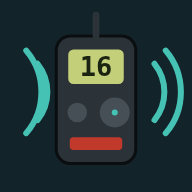
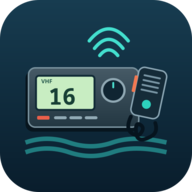
fix: captura única de veu al PTT i nova icona d’emissora VHF

diff --git a/i18n.js b/i18n.js
@@ -12,6 +12,7 @@ const T={
   'knob.vol':'VOL','knob.sql':'SQL','knob.channel':'CANAL','aria.vol':'Volum','aria.sql':'Squelch','aria.dial':'Canal','aria.down':'Canal anterior','aria.up':'Canal següent','aria.radio':'Emissora VHF',
   'key.power':'Encén o apaga (tecla P)','key.169':'Canal 16 / 9 (tecla 1)','key.hl':'Potència alta o baixa (tecla H)','key.scan':'Escàner (tecla S)','key.dsc':'Alerta de socors DSC (simulada)',
   'ptt.aria':'PTT: mantén premut per parlar','ptt.off':'Encén la ràdio','ptt.tx':'Transmetent… deixa anar per escoltar','ptt.ready':'Mantén premut i parla','ptt.noVoice':'Canal sense veu',
+  'heard.starting':'Preparant el micròfon… accepta el permís i espera «Escoltant» abans de parlar.','heard.capture':'No es pot capturar el micròfon. Comprova el dispositiu d’entrada i si una altra aplicació el fa servir.','heard.language':'El servei de reconeixement no admet aquesta llengua. Canvia la llengua de ràdio o escriu el missatge.','heard.startFailed':'No s’ha pogut iniciar el reconeixement de veu. Torna a prémer el PTT o fes servir el text.','heard.timeout':'El servei de reconeixement no ha retornat cap resultat. Comprova la connexió o escriu el missatge.',
   'heard.initial':'Mantén premut el PTT (o la barra d’espai), parla i deixa’l anar en acabar amb «{over}».','heard.listening':'Escoltant…','heard.processing':'Processant…',
   'heard.textMode':'Mode text: escriu el missatge a sota i prem «Transmet».','heard.noMic':'Cal donar permís al micròfon per parlar. També pots escriure el missatge.',
   'heard.network':'El reconeixement de veu del navegador necessita connexió a Internet. Mentrestant, escriu el missatge.','heard.nothing':'No s’ha reconegut cap frase. Mantén premut el PTT mentre parles i deixa’l anar en acabar.',
@@ -56,6 +57,7 @@ const T={
   'knob.vol':'VOL','knob.sql':'SQL','knob.channel':'CANAL','aria.vol':'Volumen','aria.sql':'Squelch','aria.dial':'Canal','aria.down':'Canal anterior','aria.up':'Canal siguiente','aria.radio':'Emisora VHF',
   'key.power':'Encender o apagar (tecla P)','key.169':'Canal 16 / 9 (tecla 1)','key.hl':'Potencia alta o baja (tecla H)','key.scan':'Escáner (tecla S)','key.dsc':'Alerta de socorro DSC (simulada)',
   'ptt.aria':'PTT: mantén pulsado para hablar','ptt.off':'Enciende la radio','ptt.tx':'Transmitiendo… suelta para escuchar','ptt.ready':'Mantén pulsado y habla','ptt.noVoice':'Canal sin voz',
+  'heard.starting':'Preparando el micrófono… acepta el permiso y espera «Escuchando» antes de hablar.','heard.capture':'No se puede capturar el micrófono. Comprueba el dispositivo de entrada y si otra aplicación lo utiliza.','heard.language':'El servicio no admite este idioma. Cambia el idioma de radio o escribe el mensaje.','heard.startFailed':'No se pudo iniciar el reconocimiento. Vuelve a pulsar PTT o utiliza texto.','heard.timeout':'El servicio de reconocimiento no devolvió resultados. Comprueba la conexión o escribe el mensaje.',
   'heard.initial':'Mantén pulsado el PTT (o la barra espaciadora), habla y suéltalo al terminar con «{over}».','heard.listening':'Escuchando…','heard.processing':'Procesando…',
   'heard.textMode':'Modo texto: escribe el mensaje abajo y pulsa «Transmitir».','heard.noMic':'Hay que dar permiso al micrófono para hablar. También puedes escribir el mensaje.',
   'heard.network':'El reconocimiento de voz del navegador necesita conexión a Internet. Mientras tanto, escribe el mensaje.','heard.nothing':'No se ha reconocido ninguna frase. Mantén pulsado el PTT mientras hablas y suéltalo al terminar.',
@@ -100,6 +102,7 @@ const T={
   'knob.vol':'VOL','knob.sql':'SQL','knob.channel':'CHANNEL','aria.vol':'Volume','aria.sql':'Squelch','aria.dial':'Channel','aria.down':'Previous channel','aria.up':'Next channel','aria.radio':'VHF radio',
   'key.power':'Power on or off (P key)','key.169':'Channel 16 / 9 (1 key)','key.hl':'High or low power (H key)','key.scan':'Scanner (S key)','key.dsc':'DSC distress alert (simulated)',
   'ptt.aria':'PTT: hold to talk','ptt.off':'Switch the radio on','ptt.tx':'Transmitting… release to listen','ptt.ready':'Hold and talk','ptt.noVoice':'No voice on this channel',
+  'heard.starting':'Preparing the microphone… allow access and wait for “Listening” before speaking.','heard.capture':'Cannot capture microphone audio. Check the input device and whether another application is using it.','heard.language':'The recognition service does not support this language. Change the radio language or type your message.','heard.startFailed':'Speech recognition could not start. Press PTT again or use text.','heard.timeout':'The recognition service returned no result. Check your connection or type the message.',
   'heard.initial':'Hold the PTT (or the space bar), speak, and release it when you finish with “{over}”.','heard.listening':'Listening…','heard.processing':'Processing…',
   'heard.textMode':'Text mode: type the message below and press “Transmit”.','heard.noMic':'Microphone permission is needed to talk. You can also type the message.',
   'heard.network':'The browser’s speech recognition needs an Internet connection. Meanwhile, type the message.','heard.nothing':'No speech was recognised. Hold the PTT while you talk and release it when you finish.',
@@ -144,6 +147,7 @@ const T={
   'knob.vol':'VOL','knob.sql':'SQL','knob.channel':'CANAL','aria.vol':'Volume','aria.sql':'Squelch','aria.dial':'Canal','aria.down':'Canal précédent','aria.up':'Canal suivant','aria.radio':'Radio VHF',
   'key.power':'Allumer ou éteindre (touche P)','key.169':'Canal 16 / 9 (touche 1)','key.hl':'Puissance haute ou basse (touche H)','key.scan':'Scanner (touche S)','key.dsc':'Alerte de détresse ASN (simulée)',
   'ptt.aria':'Alternat : maintenez pour parler','ptt.off':'Allumez la radio','ptt.tx':'Émission… relâchez pour écouter','ptt.ready':'Maintenez et parlez','ptt.noVoice':'Canal sans phonie',
+  'heard.starting':'Préparation du micro… autorisez son accès et attendez « Écoute » avant de parler.','heard.capture':'Impossible de capter le micro. Vérifiez le périphérique d’entrée et si une autre application l’utilise.','heard.language':'Le service ne prend pas en charge cette langue. Changez la langue radio ou écrivez le message.','heard.startFailed':'Impossible de démarrer la reconnaissance. Appuyez à nouveau sur l’alternat ou utilisez le texte.','heard.timeout':'Le service n’a renvoyé aucun résultat. Vérifiez la connexion ou écrivez le message.',
   'heard.initial':'Maintenez l’alternat (ou la barre d’espace), parlez, puis relâchez en terminant par « {over} ».','heard.listening':'Écoute…','heard.processing':'Traitement…',
   'heard.textMode':'Mode texte : écrivez le message ci-dessous et appuyez sur « Émettre ».','heard.noMic':'Il faut autoriser le micro pour parler. Vous pouvez aussi écrire le message.',
   'heard.network':'La reconnaissance vocale du navigateur a besoin d’Internet. En attendant, écrivez le message.','heard.nothing':'Aucune phrase reconnue. Maintenez l’alternat pendant que vous parlez et relâchez à la fin.',

diff --git a/app.js b/app.js
@@ -21,10 +21,10 @@ const save=()=>{try{localStorage.setItem(KEY,JSON.stringify(settings))}catch{}};
 
 const state={on:false,channel:settings.channel,power:settings.power,tx:false,rx:null,scan:false,scanHold:0,lastScan:0,dialog:newState(),queue:[],nextData:0,txLevel:0,signal:0};
 const traffic=new Traffic(Date.now());
-let rxToken=0,recognizer=null,stopMeter=null,txTimer=null,textTxTimer=null,msgTimer=null,textAnim=null,session=0,powerBusy=false,txChannel=null,txSession=null,cancelDsc=()=>{};
+let rxToken=0,recognizer=null,stopMeter=null,txTimer=null,textTxTimer=null,msgTimer=null,textAnim=null,session=0,powerBusy=false,voiceProcessing=false,txChannel=null,txSession=null,cancelDsc=()=>{};
 const pendingTimers=new Set();
 function later(fn,ms){const id=setTimeout(()=>{pendingTimers.delete(id);fn()},ms);pendingTimers.add(id);return id}
-function cancelSession(){session++;cancelDsc();clearTimeout(msgTimer);msgTimer=null;for(const id of pendingTimers)clearTimeout(id);pendingTimers.clear();clearTimeout(textTxTimer);textTxTimer=null;clearInterval(textAnim);textAnim=null;clearTimeout(txTimer);recognizer?.abort();recognizer=null;stopMeter?.();stopMeter=null;state.tx=false;state.txLevel=0;state.queue.length=0;state.dialog=newState();for(const key of Object.keys(history))delete history[key];$('#heard').classList.remove('live');}
+function cancelSession(){session++;voiceProcessing=false;cancelDsc();clearTimeout(msgTimer);msgTimer=null;for(const id of pendingTimers)clearTimeout(id);pendingTimers.clear();clearTimeout(textTxTimer);textTxTimer=null;clearInterval(textAnim);textAnim=null;clearTimeout(txTimer);recognizer?.abort();recognizer=null;stopMeter?.();stopMeter=null;state.tx=false;state.txLevel=0;state.queue.length=0;state.dialog=newState();for(const key of Object.keys(history))delete history[key];$('#heard').classList.remove('live');}
 
 /* ---------- Pantalla LCD ---------- */
 const DIGITS={0:'abcdef',1:'bc',2:'abged',3:'abgcd',4:'fgbc',5:'afgcd',6:'afgedc',7:'abc',8:'abcdefg',9:'abcdfg','-':'g',' ':''};
@@ -51,7 +51,7 @@ function render(){
  document.querySelectorAll('#meter i').forEach((b,i)=>b.classList.toggle('on',i<bars));
  $('#meterLabel').textContent=state.tx?'TX':'RX';
  $('#kScan').setAttribute('aria-pressed',state.scan);$('#power').setAttribute('aria-pressed',state.on);
- $('#ptt').disabled=!state.on;$('#ptt').classList.toggle('tx',state.tx);
+ $('#ptt').disabled=!state.on||voiceProcessing;$('#ptt').classList.toggle('tx',state.tx);
  $('#pttHint').textContent=t(!state.on?'ptt.off':state.tx?'ptt.tx':c.txAllowed?'ptt.ready':'ptt.noVoice');
  const dial=$('#dial');dial.setAttribute('aria-valuenow',state.channel);dial.setAttribute('aria-valuetext',t('aria.dial')+' '+state.channel+', '+channelName(c.nameKey));
  if(!state.rx&&!state.tx&&!msgTimer)lcdMessage('');
@@ -171,27 +171,36 @@ function canTransmit(){
  if(!info(state.channel).txAllowed){audio.error();lcdMessage(t('lcd.txInhibit'),2500);return false}
  return true;
 }
+function recognitionError(error){
+ const key=({'not-allowed':'heard.noMic','service-not-allowed':'heard.noMic','network':'heard.network','audio-capture':'heard.capture','language-not-supported':'heard.language','start':'heard.startFailed','unsupported':'heard.startFailed','timeout':'heard.timeout'})[error]||'heard.nothing';
+ return t(key);
+}
 async function pttDown(){
- if(state.tx||!canTransmit())return;
+ if(state.tx||voiceProcessing||!canTransmit())return;
  if(state.rx){const kind=state.rx.kind;interruptRx('step');if(kind!=='distant')log('system',t('sys.stepped'))}
  txChannel=state.channel;txSession=session;state.scan=false;state.tx=true;audio.tx(true);lcdMessage(t('lcd.tx'));render();
  const heard=$('#heard');heard.classList.add('live');heard.dataset.used='1';
  if(settings.mode==='voice'&&canListen()){
-  heard.textContent=t('heard.listening');
-  recognizer=listen(settings.lang,text=>{heard.textContent=text||t('heard.listening')});
-  const stamp=session,currentTx=recognizer;
-  audio.micMeter(l=>{state.txLevel=Math.min(1,l*2.2);$('#ptt').style.setProperty('--lvl',state.txLevel);render()}).then(stop=>{if(state.tx&&stamp===session&&currentTx===recognizer)stopMeter=stop;else stop()});
+  heard.textContent=t('heard.starting');
+  const stamp=session;
+  recognizer=listen(settings.lang,text=>{if(stamp===session)heard.textContent=text||t('heard.listening')},(phase,error)=>{
+   if(stamp!==session||!state.tx)return;
+   if(phase==='error'){heard.textContent=recognitionError(error);return}
+   state.txLevel=phase==='speech'?.65:0;render();
+   if(!heard.textContent||[t('heard.starting'),t('heard.listening')].includes(heard.textContent))heard.textContent=t(phase==='starting'?'heard.starting':'heard.listening');
+  });
  }else heard.textContent=t('heard.textMode');
  clearTimeout(txTimer);txTimer=setTimeout(()=>{if(state.tx){lcdMessage(t('lcd.timeout'),2500);pttUp()}},45000);
 }
 async function pttUp(){
  if(!state.tx||textTxTimer)return;clearTimeout(txTimer);state.tx=false;state.txLevel=0;audio.tx(false);stopMeter?.();stopMeter=null;render();
  const heard=$('#heard');heard.classList.remove('live');
- if(!recognizer)return;const r=recognizer,channel=txChannel,stamp=txSession;recognizer=null;heard.textContent=t('heard.processing');
+ if(!recognizer)return;const r=recognizer,channel=txChannel,stamp=txSession;recognizer=null;voiceProcessing=true;render();heard.textContent=t('heard.processing');
  const {text,error}=await r.stop();
  if(!state.on||stamp!==session)return;
+ voiceProcessing=false;render();
  if(text){heard.textContent='«'+text+'»';transmitted(text,channel,stamp);return}
- heard.textContent=t(error==='not-allowed'||error==='service-not-allowed'?'heard.noMic':error==='network'?'heard.network':'heard.nothing');
+ heard.textContent=recognitionError(error);
 }
 async function transmitted(text,channel=state.channel,stamp=session){
  if(!state.on||stamp!==session)return;
@@ -238,7 +247,7 @@ addEventListener('keydown',e=>{
  if(k==='p')powerToggle();else if(k==='s')$('#kScan').click();else if(k==='h')$('#kHL').click();else if(k==='1')$('#k16').click();
  else if(e.target.closest?.('.knob'))return;else if(e.key==='ArrowUp'){e.preventDefault();$('#kUp').click()}else if(e.key==='ArrowDown'){e.preventDefault();$('#kDown').click()}
 });
-addEventListener('keyup',e=>{if(e.code==='Space'&&!typing(e))pttUp()});
+addEventListener('keyup',e=>{if(e.code==='Space')pttUp()});
 document.addEventListener('visibilitychange',()=>{if(document.hidden&&state.tx)pttUp()});
 
 /* ---------- Alerta DSC de socors (mantenir premut 3 s) ---------- */

diff --git a/voice.js b/voice.js
@@ -46,17 +46,54 @@ export function silence(){utterances.clear();synth?.cancel()}
 
 const Recognition=globalThis.SpeechRecognition||globalThis.webkitSpeechRecognition;
 export const canListen=()=>!!Recognition;
-// Escolta mentre el PTT és premut. stop() retorna el text reconegut.
-export function listen(lang,onInterim=()=>{}){
- const rec=new Recognition();rec.lang=LOCALE[lang]||lang;rec.interimResults=true;rec.continuous=true;rec.maxAlternatives=1;
- let finalText='',interim='',error=null,ended=false,resolveEnd;
- const endPromise=new Promise(r=>resolveEnd=r);
- rec.onresult=e=>{interim='';for(let i=e.resultIndex;i<e.results.length;i++){const r=e.results[i];if(r.isFinal)finalText+=r[0].transcript+' ';else interim+=r[0].transcript}onInterim((finalText+interim).trim())};
- rec.onerror=e=>{error=e.error};
- rec.onend=()=>{ended=true;resolveEnd()};
- try{rec.start()}catch(e){error='start';ended=true;resolveEnd()}
+// Una sola captura de micròfon: la del reconeixedor. El permís pot trigar a arribar.
+export function listen(lang,onInterim=()=>{},onStatus=()=>{}){
+ let rec=null,completed='',current='',error=null,stopping=false,aborted=false,ended=true;
+ let retry=null,stopPromise=null,resolveStop=null,guard=null,restarts=0;
+ const text=()=>[completed,current].filter(Boolean).join(' ').trim();
+ const finish=()=>{clearTimeout(guard);clearTimeout(retry);resolveStop?.({text:text(),error});resolveStop=null};
+ const fail=code=>{error=code;onStatus('error',code)};
+ function start(){
+  if(stopping||aborted)return;
+  if(!Recognition){fail('unsupported');finish();return}
+  try{
+   rec=new Recognition();ended=false;current='';
+   rec.lang=LOCALE[lang]||lang;rec.interimResults=true;rec.continuous=true;rec.maxAlternatives=1;
+   const active=rec;
+   rec.onstart=()=>{if(aborted){active.abort();return}if(stopping){try{active.stop()}catch{}return}onStatus('ready')};
+   rec.onaudiostart=()=>{if(!stopping&&!aborted)onStatus('ready')};
+   rec.onspeechstart=()=>{if(!stopping&&!aborted)onStatus('speech')};
+   rec.onspeechend=()=>{if(!stopping&&!aborted)onStatus('ready')};
+   rec.onresult=e=>{
+    if(aborted)return;
+    // results és la llista completa de la sessió, també quan una frase es revisa.
+    current=Array.from(e.results,r=>r[0]?.transcript||'').join(' ').trim();
+    onInterim(text());
+   };
+   rec.onerror=e=>{if(aborted)return;if(e.error==='no-speech'){error='no-speech';return}fail(e.error)};
+   rec.onend=()=>{
+    ended=true;if(aborted){finish();return}
+    completed=text();current='';
+    if(stopping){finish();return}
+    // Alguns navegadors acaben la sessió durant una pausa encara que continuous=true.
+    if((!error||error==='no-speech')&&restarts++<3){error=null;onStatus('starting');retry=setTimeout(start,150)}
+    else {if(!error||error==='no-speech')fail('no-speech');finish()}
+   };
+   onStatus('starting');rec.start();
+  }catch(e){ended=true;fail(e.name==='NotAllowedError'?'not-allowed':'start');finish()}
+ }
+ start();
  return {
-  async stop(){if(!ended){try{rec.stop()}catch{}await Promise.race([endPromise,new Promise(r=>setTimeout(r,2500))])}return {text:(finalText+interim).trim(),error}},
-  abort(){try{rec.abort()}catch{}},
+  stop(){
+   if(stopPromise)return stopPromise;
+   stopping=true;clearTimeout(retry);
+   stopPromise=new Promise(resolve=>{resolveStop=resolve});
+   if(ended||aborted){finish();return stopPromise}
+   // stop() pot precedir onstart mentre s'accepta el permís: onstart ho tornarà a provar.
+   guard=setTimeout(()=>{error||=text()?null:'timeout';try{rec.abort()}catch{}finish()},8000);
+   try{rec.stop()}catch{}
+   return stopPromise;
+  },
+  abort(){aborted=true;stopping=true;clearTimeout(retry);try{rec?.abort()}catch{}finish()},
  };
 }

diff --git a/sw.js b/sw.js
@@ -1,5 +1,5 @@
 // Memòria cau de l'aplicació: tot funciona sense connexió excepte el reconeixement de veu de Chrome.
-const VERSION='v1.2.1';
+const VERSION='v1.2.2';
 const PREFIX='emissora-vhf:'+self.registration.scope+':';
 const CACHE=PREFIX+VERSION;
 const FILES=['./','./index.html','./style.css','./app.js','./audio.js','./voice.js','./dialog.js','./stations.js','./channels.js','./traffic.js','./chatter.js','./i18n.js','./ai.js','./vendor/anthropic-sdk.mjs','./manifest.webmanifest','./icons/icon.svg','./icons/icon-192.png','./icons/icon-512.png'];

diff --git a/HANDOFF.md b/HANDOFF.md
@@ -1,6 +1,6 @@
 # Handoff · Emissora VHF
 
-Document de traspàs per continuar el projecte sense context previ. Estat a **12 de novembre de 2026**, versió de memòria cau `v1.2.1`.
+Document de traspàs per continuar el projecte sense context previ. Estat a **12 de novembre de 2026**, versió de memòria cau `v1.2.2`.
 
 ### Millores de continuació (12 de novembre)
 
@@ -114,3 +114,11 @@ Publicar: fer `git push` a `main`. GitHub Pages es reconstrueix sol en un o dos 
 - El projecte el mantén **Guirigall**. Els commits es fan amb l’adreça privada de GitHub `61776585+Guirigall@users.noreply.github.com`; no s’ha de posar cap correu personal al repositori.
 - Projectes germans al mateix compte, amb el mateix estil de PWA i el mateix flux de captures: CablejatElectric, ElectricitatABord, ExercicisCartaNautica, MotorMarino.
 - L’usuari escriu en català i prefereix explicacions en català.
+
+## PTT i icona · v1.2.2
+
+- Icona nova: emissora fixa horitzontal amb micròfon separat, SVG i PNG de 192/512 px.
+- PTT: captura única del reconeixedor, sense obrir un segon micròfon per al vúmetre. El nivell TX indica activitat de parla detectada, no amplitud mesurada.
+- Es distingeix preparació d’escolta real; es processen resultats després de deixar anar el botó (fins a 8 s), es recuperen finals prematurs de sessió i s’eviten transcripcions duplicades.
+- Errors de xarxa, captura, permís i llengua amb missatges en els quatre idiomes.
+- Proves unitàries amb reconeixedor simulat i regressió Chromium del PTT complet. La veu real del dispositiu continua requerint comprovació amb l’usuari; el servei del navegador necessita connexió.
